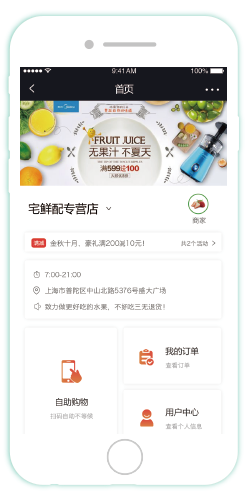
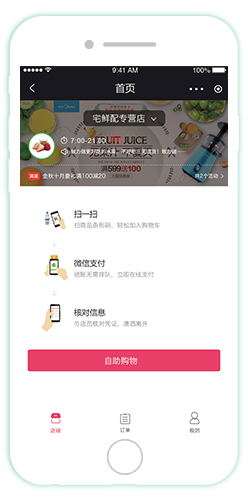
提交商家后台小程序模版修改

diff --git a/templates/merchant/merchant_template.dwt.php b/templates/merchant/merchant_template.dwt.php
@@ -70,7 +70,7 @@
                             <div class="col-lg-10">
                                 <div class="template-content img-pwsp-list">
                                 	<div class="template-item">
-                                		<figure><span><a class="nopjax" href="{$app_url}template_3.png" data-size="248x500" data-med-size="200x403" title="点击放大" data-med="{$app_url}template_3.png"><img href="{$app_url}template_1.png" src="{$app_url}template_3.png" class="w200"/></a></span></figure>
+                                		<figure><span><a class="nopjax" href="{$app_url}template_4.png" data-size="248x500" data-med-size="200x403" title="点击放大" data-med="{$app_url}template_4.png"><img href="{$app_url}template_4.png" src="{$app_url}template_4.png" class="w200"/></a></span></figure>
                                 	</div>
                                 </div>
                             </div>
